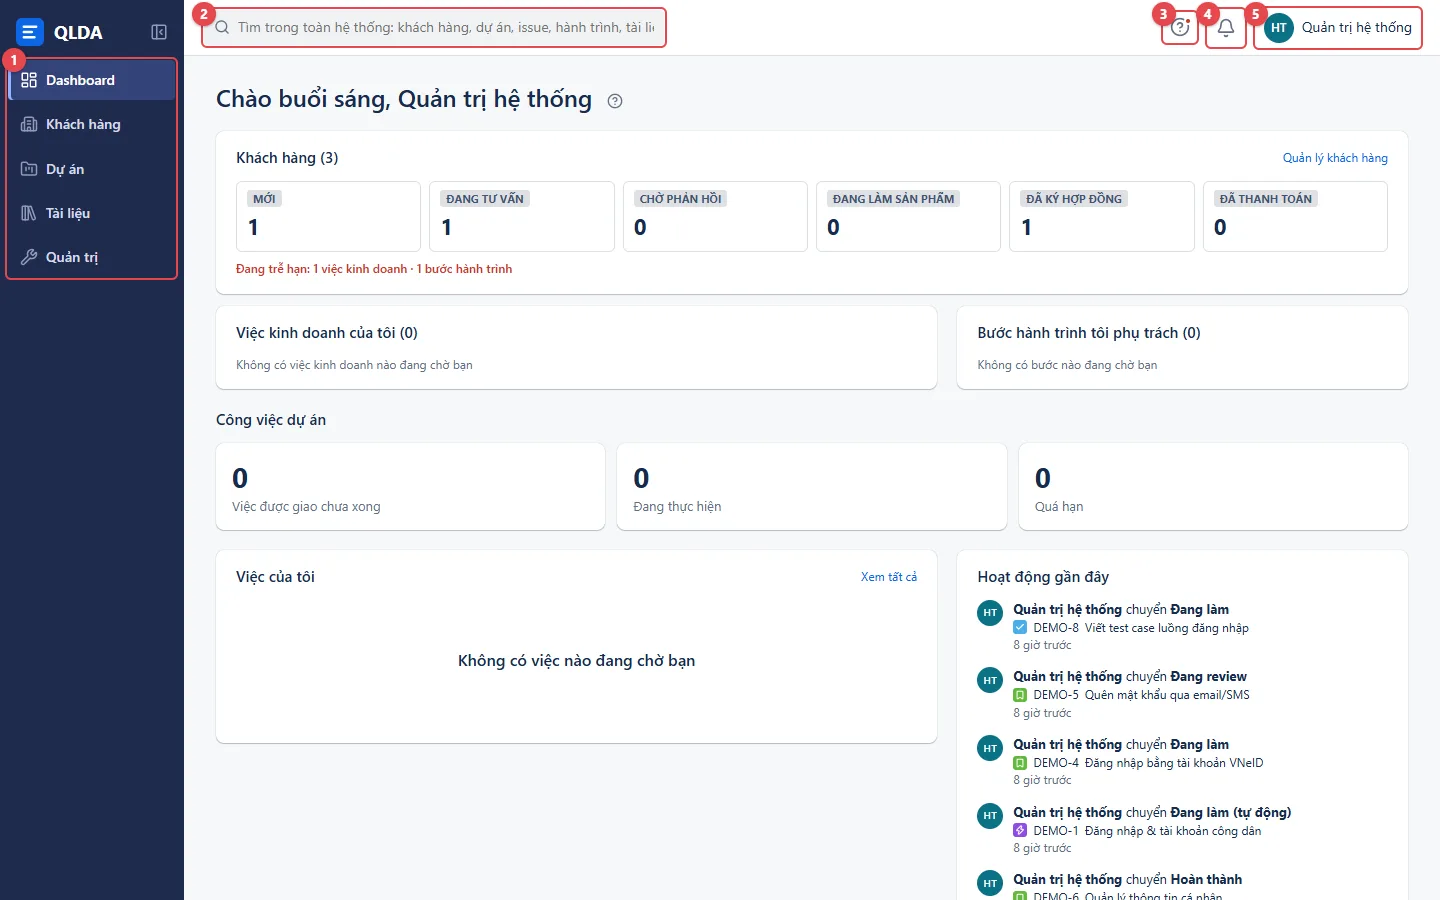
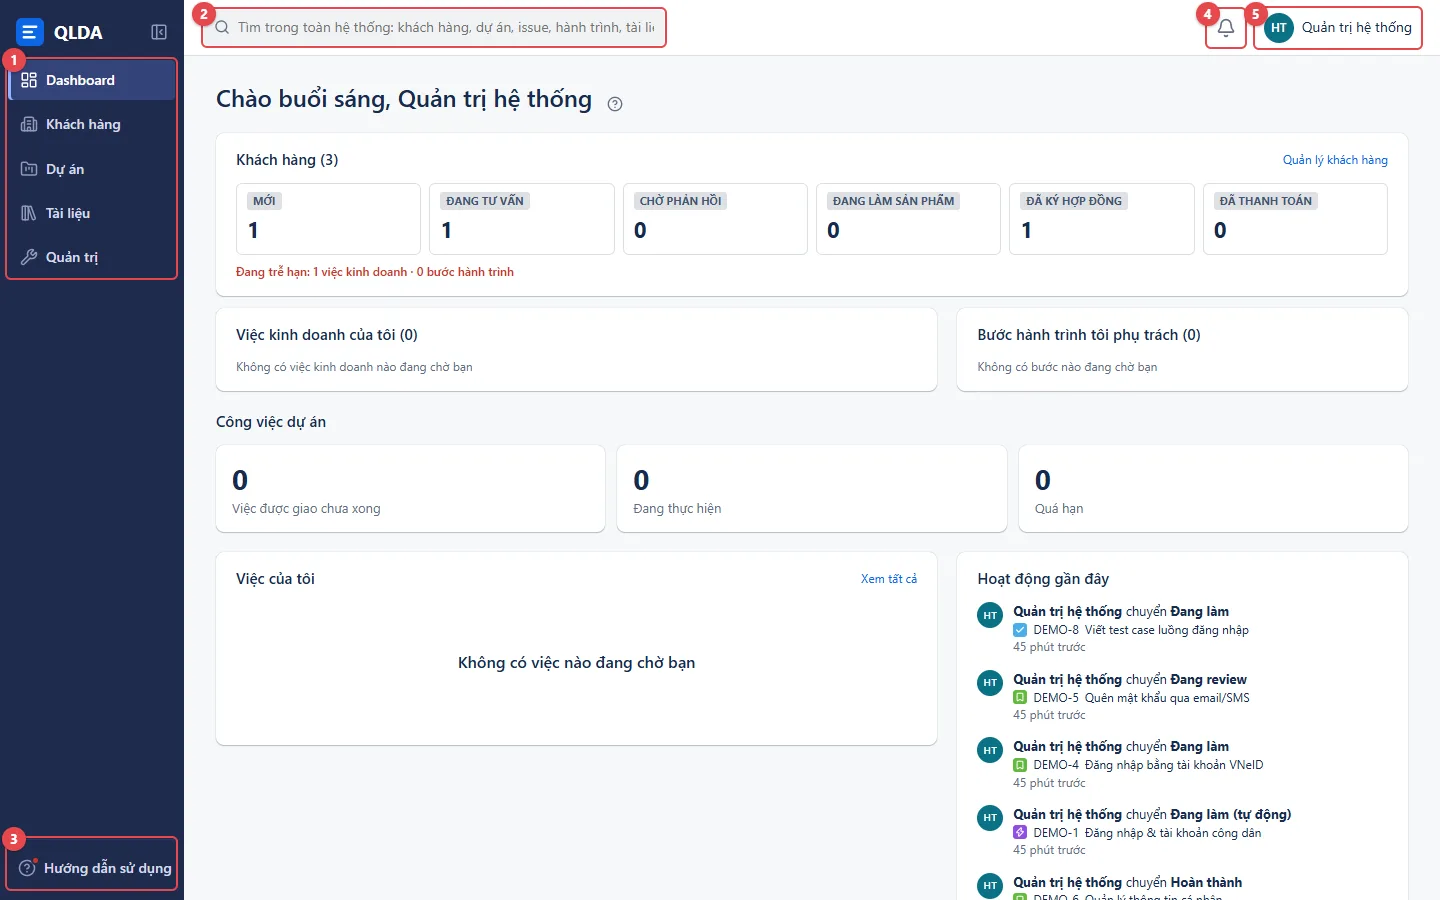
fix(help): mục "Hướng dẫn sử dụng" có chữ ở cuối thanh bên thay cho nút ? trên thanh trên cùng; nút ⓘ cạnh tiêu đề thẳng hàng
- Thanh bên: mục Hướng dẫn sử dụng (chấm đỏ khi có cập nhật), menu nổi bên phải; thu gọn thì chỉ còn biểu tượng
- Nút ⓘ cạnh tên màn hình căn giữa theo dòng chữ
- Cập nhật lời tour, các bài hướng dẫn và ảnh bố cục màn hình

diff --git a/web/src/help/HelpMenu.tsx b/web/src/help/HelpMenu.tsx
@@ -1,32 +1,47 @@
-import { useState } from 'react';
+import { useEffect, useRef, useState } from 'react';
 import { useLocation, useNavigate } from 'react-router-dom';
 import { BookOpen, CircleHelp, Compass, Info, Rocket, ShieldCheck, Sparkles } from 'lucide-react';
 import { articleForRoute } from './help-core';
 import { NEWS_ID, MY_PERMS_ID, START_ID, openHelp, startTour, useHasUnreadNews, useHelpArticles } from './articles';
 
-/** Nút "?" trên thanh trên cùng: hướng dẫn màn hình đang mở, trung tâm hướng dẫn, bắt đầu nhanh, có gì mới, quyền của tôi, tour */
-export default function HelpMenu() {
-  const [open, setOpen] = useState(false);
+/** Mục "Hướng dẫn sử dụng" cuối thanh bên: hướng dẫn màn hình đang mở, trung tâm hướng dẫn, bắt đầu nhanh, có gì mới, quyền của tôi, tour */
+export default function HelpMenu({ collapsed, onDone }: { collapsed?: boolean; onDone?: () => void }) {
+  const [pos, setPos] = useState<{ left: number; bottom: number } | null>(null);
+  const wrap = useRef<HTMLDivElement>(null);
   const navigate = useNavigate();
   const location = useLocation();
   const { visible } = useHelpArticles();
   const unread = useHasUnreadNews();
   const here = articleForRoute(visible, location.pathname, location.search);
-  const go = (path: string) => { setOpen(false); navigate(path); };
+  const close = () => setPos(null);
+  const done = () => { close(); onDone?.(); };
+  const go = (path: string) => { done(); navigate(path); };
+  // Menu nổi bên phải thanh bên (thanh bên cuộn được nên không đặt menu bên trong); bấm ra ngoài thì đóng
+  const toggle = () => {
+    if (pos) return close();
+    const r = (wrap.current!.closest('.sidebar') ?? wrap.current!).getBoundingClientRect();
+    setPos({ left: Math.min(r.right + 8, window.innerWidth - 280), bottom: Math.max(8, window.innerHeight - wrap.current!.getBoundingClientRect().bottom) });
+  };
+  useEffect(() => {
+    if (!pos) return;
+    const out = (e: MouseEvent) => { if (!wrap.current?.contains(e.target as Node)) close(); };
+    document.addEventListener('mousedown', out);
+    return () => document.removeEventListener('mousedown', out);
+  }, [pos]);
   return (
-    <div className="user-menu" data-tour="help">
-      <button className="icon-btn help-btn" aria-label="Hướng dẫn sử dụng" data-tip={open ? undefined : 'Hướng dẫn sử dụng'} onClick={() => setOpen(!open)}>
-        <CircleHelp size={20} />
-        {unread && <span className="help-dot" aria-label="Có cập nhật mới" />}
+    <div className="side-help" ref={wrap} data-tour="help">
+      <button className={`side-help-btn ${pos ? 'open' : ''}`} aria-label="Hướng dẫn sử dụng" data-tip={collapsed && !pos ? 'Hướng dẫn sử dụng' : undefined} onClick={toggle}>
+        <span className="side-help-icon"><CircleHelp size={18} />{unread && <span className="help-dot" aria-label="Có cập nhật mới" />}</span>
+        <span className="nav-label">Hướng dẫn sử dụng</span>
       </button>
-      {open && (
-        <div className="dropdown help-menu" onMouseLeave={() => setOpen(false)}>
-          {here && <button onClick={() => { setOpen(false); openHelp(here.id); }}><Info size={16} /> Hướng dẫn màn hình này<div className="muted small">{here.title}</div></button>}
+      {pos && (
+        <div className="dropdown help-menu" style={{ position: 'fixed', top: 'auto', right: 'auto', left: pos.left, bottom: pos.bottom }}>
+          {here && <button onClick={() => { done(); openHelp(here.id); }}><Info size={16} /> Hướng dẫn màn hình này<div className="muted small">{here.title}</div></button>}
           <button onClick={() => go('/help')}><BookOpen size={16} /> Trung tâm hướng dẫn</button>
           <button onClick={() => go(`/help/${START_ID}`)}><Rocket size={16} /> Bắt đầu nhanh theo vai trò</button>
           <button onClick={() => go(`/help/${NEWS_ID}`)}><Sparkles size={16} /> Có gì mới {unread && <span className="help-new">Mới</span>}</button>
           <button onClick={() => go(`/help/${MY_PERMS_ID}`)}><ShieldCheck size={16} /> Quyền của tôi</button>
-          <button onClick={() => { setOpen(false); startTour(); }}><Compass size={16} /> Xem lại hướng dẫn nhanh</button>
+          <button onClick={() => { done(); startTour(); }}><Compass size={16} /> Xem lại hướng dẫn nhanh</button>
         </div>
       )}
     </div>

diff --git a/web/src/styles.css b/web/src/styles.css
@@ -1190,8 +1190,14 @@ a.cw-proj-link:hover { background: var(--hover); text-decoration: none; }
 .search-select-pop .picker-list { position: relative; }
 
 /* ---------- Hướng dẫn sử dụng ---------- */
-.help-btn { position: relative; }
-.help-dot { position: absolute; top: 4px; right: 4px; width: 8px; height: 8px; border-radius: 50%; background: var(--danger); border: 2px solid var(--surface); }
+/* Mục Hướng dẫn sử dụng cuối thanh bên */
+.side-help { margin-top: auto; padding-top: 8px; border-top: 1px solid var(--side-hover); }
+.side-help-btn { display: flex; align-items: center; gap: 8px; width: 100%; padding: 10px 10px; white-space: nowrap; overflow: hidden; border: none; border-radius: 4px; background: transparent; color: var(--side-fg); font: inherit; font-weight: 500; cursor: pointer; text-align: left; }
+.side-help-btn:hover, .side-help-btn.open { background: var(--side-hover); color: #fff; }
+.side-help-icon { position: relative; display: inline-flex; color: var(--side-muted); }
+.side-help-btn:hover .side-help-icon, .side-help-btn.open .side-help-icon { color: #fff; }
+.help-dot { position: absolute; top: -3px; right: -4px; width: 9px; height: 9px; border-radius: 50%; background: var(--danger); border: 2px solid var(--side-bg); }
+@media (min-width: 801px) { .side-collapsed .side-help-btn { justify-content: center; padding-left: 0; padding-right: 0; } }
 .help-menu { min-width: 260px; }
 .help-menu button { display: flex; align-items: center; gap: 10px; flex-wrap: wrap; }
 .help-menu button .muted { flex-basis: 100%; padding-left: 26px; margin-top: -2px; }
@@ -1254,4 +1260,4 @@ a.cw-proj-link:hover { background: var(--hover); text-decoration: none; }
   .help-toc { position: static; height: auto; max-height: 45vh; border-right: none; border-bottom: 1px solid var(--border); }
   .help-main { padding: 16px; }
 }
-h1 .help-inline, h2 .help-inline { vertical-align: middle; margin-left: 2px; }
+h1 .help-inline, h2 .help-inline { display: inline-flex; vertical-align: -5px; margin-left: 2px; }

diff --git a/web/src/components/Layout.tsx b/web/src/components/Layout.tsx
@@ -88,6 +88,8 @@ export default function Layout() {
           {hasSubsystem(me, 'docs') && <NavLink to="/docs" data-tour="nav-docs" data-tip={collapsed ? 'Tài liệu' : undefined}><LibraryBig size={18} /> <span className="nav-label">Tài liệu</span></NavLink>}
           {hasSubsystem(me, 'admin') && <NavLink to="/admin" data-tour="nav-admin" data-tip={collapsed ? 'Quản trị' : undefined}><Wrench size={18} /> <span className="nav-label">Quản trị</span></NavLink>}
         </nav>
+        {/* Cuối thanh bên: Hướng dẫn sử dụng (mọi tài khoản đều thấy) */}
+        <HelpMenu collapsed={collapsed} onDone={() => setNavOpen(false)} />
         {/* Kéo mép phải để co giãn; kéo hẹp quá thì thu gọn chỉ còn biểu tượng */}
         <div className="side-resizer" role="separator" aria-orientation="vertical" aria-label="Kéo để co giãn thanh bên" onPointerDown={startResize} />
       </aside>
@@ -98,7 +100,6 @@ export default function Layout() {
           <div data-tour="search" className="tour-search"><GlobalSearch /></div>
           {createBtn && <button className="btn btn-primary" onClick={() => setCreating(true)}><Plus size={16} strokeWidth={2.5} /> {createBtn}</button>}
           <div className="spacer" />
-          <HelpMenu />
           <div data-tour="bell"><NotificationBell /></div>
           <div className="user-menu" data-tour="user">
             <button className="user-btn" onClick={() => setMenu(!menu)}>

diff --git a/web/src/help/Tour.tsx b/web/src/help/Tour.tsx
@@ -15,7 +15,7 @@ export const TOUR_STEPS: Step[] = [
   { target: '[data-tour="nav-admin"]', sub: 'admin', title: 'Quản trị', text: 'Người dùng, phân quyền và các danh mục dùng chung.' },
   { target: '[data-tour="search"]', title: 'Tìm kiếm nhanh', text: 'Gõ mã issue (VD DEMO-12), tên công việc, dự án hoặc khách hàng để mở ngay.' },
   { target: '[data-tour="bell"]', title: 'Thông báo', text: 'Khi có người nhắc tên bạn, giao việc, bình luận hoặc đổi trạng thái việc của bạn, chuông sẽ báo ở đây.' },
-  { target: '[data-tour="help"]', title: 'Hướng dẫn sử dụng', text: 'Nút này mở hướng dẫn của đúng màn hình đang dùng, Trung tâm hướng dẫn, mục Có gì mới và Quyền của tôi.' },
+  { target: '[data-tour="help"]', title: 'Hướng dẫn sử dụng', text: 'Mục này ở cuối thanh bên, mở hướng dẫn của đúng màn hình đang dùng, Trung tâm hướng dẫn, mục Có gì mới và Quyền của tôi.' },
   { target: '[data-tour="user"]', title: 'Tài khoản của bạn', text: 'Cài đặt tài khoản: thông tin cá nhân, ảnh đại diện, giao diện sáng/tối, loại thông báo muốn nhận, đổi mật khẩu.' },
   { title: 'Sẵn sàng!', text: 'Mở "Bắt đầu nhanh theo vai trò" để xem các việc thường làm hằng ngày của vai trò bạn.' },
 ];

diff --git a/web/src/help/content/co-gi-moi.md b/web/src/help/content/co-gi-moi.md
@@ -5,14 +5,14 @@ order: 10
 summary: Các thay đổi mới của QLDA, mới nhất ở trên cùng.
 keywords: cập nhật, phiên bản mới, thay đổi, tính năng mới
 ---
-Khi mục này có cập nhật bạn chưa đọc, nút **?** trên thanh trên cùng có chấm đỏ. Nếu chưa thấy thay đổi, nhấn **Ctrl + F5** để tải bản mới.
+Khi mục này có cập nhật bạn chưa đọc, mục **Hướng dẫn sử dụng** cuối thanh bên có chấm đỏ. Nếu chưa thấy thay đổi, nhấn **Ctrl + F5** để tải bản mới.
 
 ## 31/10/2026 — Hướng dẫn sử dụng
-- Nút **?** trên thanh trên cùng: mở hướng dẫn của đúng màn hình đang dùng ngay bên phải, không phải rời màn hình.
+- Mục **Hướng dẫn sử dụng** cuối thanh bên và nút ⓘ cạnh tên mỗi màn hình: mở hướng dẫn của đúng màn hình đang dùng ngay bên phải, không phải rời màn hình.
 - **Trung tâm hướng dẫn**: mục lục theo phân hệ → module → màn hình, ô tìm kiếm không cần gõ dấu. Chỉ hiện hướng dẫn của những chức năng bạn được dùng; thao tác bạn chưa có quyền được hiện mờ kèm tên quyền cần xin.
 - **Bắt đầu nhanh theo vai trò**: Kinh doanh/AM, BA/PM, Dev/Tester, Ban Giám đốc, Quản trị.
-- **Quyền của tôi**: xem bảng quyền hiện tại của tài khoản (mở từ nút **?** hoặc menu tài khoản).
-- **Hướng dẫn nhanh** tự hiện ở lần đăng nhập đầu tiên; xem lại bất cứ lúc nào ở nút **?** → **Xem lại hướng dẫn nhanh**.
+- **Quyền của tôi**: xem bảng quyền hiện tại của tài khoản (mở từ mục Hướng dẫn sử dụng hoặc menu tài khoản).
+- **Hướng dẫn nhanh** tự hiện ở lần đăng nhập đầu tiên; xem lại bất cứ lúc nào ở mục Hướng dẫn sử dụng → **Xem lại hướng dẫn nhanh**.
 
 ## 29/10/2026 — Ô chọn người có tìm kiếm, tạo tài khoản cần phòng ban, API key
 - **API key cá nhân** (Cài đặt tài khoản → Bảo mật): cho trợ lý AI (Claude) hoặc script làm việc trên QLDA thay bạn, với đúng quyền của bạn. Xem [Cài đặt tài khoản](/help/ho-so-ca-nhan).

diff --git a/web/src/help/content/bat-dau.md b/web/src/help/content/bat-dau.md
@@ -7,7 +7,7 @@ keywords: bắt đầu, người mới, vai trò, hướng dẫn nhanh
 ---
 ## Bạn nên đọc gì trước?
 
-Nếu đây là lần đầu dùng QLDA, hãy đọc [Làm quen với QLDA](/help/bat-dau-gioi-thieu) trước: cách đăng nhập, bố cục màn hình, nút tìm kiếm, chuông thông báo và nút **?** hướng dẫn.
+Nếu đây là lần đầu dùng QLDA, hãy đọc [Làm quen với QLDA](/help/bat-dau-gioi-thieu) trước: cách đăng nhập, bố cục màn hình, nút tìm kiếm, chuông thông báo và mục Hướng dẫn sử dụng.
 
 Sau đó chọn trang theo công việc hằng ngày của bạn:
 
@@ -24,6 +24,6 @@ Mục lục bên trái chỉ hiện những trang phù hợp với quyền của
 ## Mẹo tra cứu
 
 - Gõ từ khóa vào ô **Tìm hướng dẫn** ở đầu mục lục, không cần gõ dấu (VD: `xuat excel`, `doi mat khau`).
-- Đang ở màn hình nào, bấm nút **?** trên thanh trên cùng → **Hướng dẫn màn hình này** để mở hướng dẫn của đúng màn hình đó ngay bên phải, không phải rời màn hình đang làm.
+- Đang ở màn hình nào, bấm nút ⓘ cạnh tên màn hình (hoặc mục **Hướng dẫn sử dụng** cuối thanh bên → **Hướng dẫn màn hình này**) để mở hướng dẫn của đúng màn hình đó ngay bên phải, không phải rời màn hình đang làm.
 - Phần thao tác có ghi **Quyền cần có**. Phần hiện mờ kèm "Bạn chưa có quyền" là thao tác tài khoản của bạn chưa được cấp.
 - Xem [Câu hỏi thường gặp](/help/cau-hoi-thuong-gap) khi gặp vướng mắc, và [Có gì mới](/help/co-gi-moi) để biết các thay đổi gần đây.

diff --git a/web/src/help/content/qt-huong-dan.md b/web/src/help/content/qt-huong-dan.md
@@ -14,7 +14,7 @@ Chỉ tài khoản thuộc nhóm **Quản trị hệ thống**. Các nút **Sử
 ## Thao tác
 
 ### Sửa một bài có sẵn
-1. Mở bài trong **Trung tâm hướng dẫn** (nút **?** → **Trung tâm hướng dẫn**).
+1. Mở bài trong **Trung tâm hướng dẫn** (mục **Hướng dẫn sử dụng** cuối thanh bên → **Trung tâm hướng dẫn**).
 2. Bấm **Sửa bài** cạnh tiêu đề.
 3. Sửa **Tiêu đề** và nội dung (bài có sẵn giữ nguyên Mục và Module trong mục lục); bấm **Xem trước** để xem thử, **Soạn** để quay lại sửa.
 4. Bấm **Lưu**. Cuối bài hiện dòng "Cập nhật trên tool bởi … lúc …".
